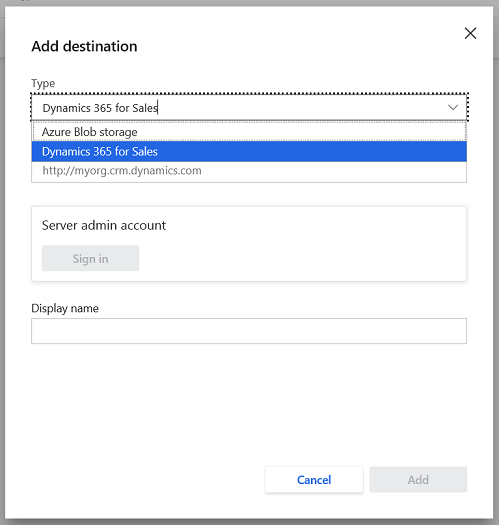
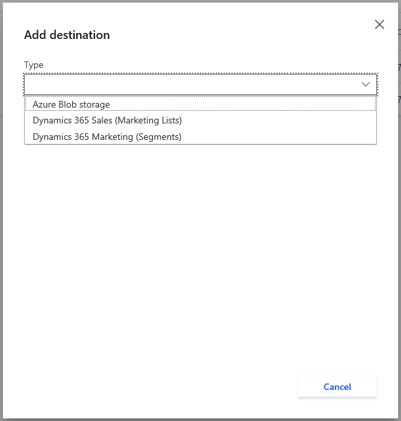
Nimrod revisions

diff --git a/ai-docs/customer-insights/export-destinations.md b/ai-docs/customer-insights/export-destinations.md
@@ -70,19 +70,42 @@ You can create a Dynamics 365 destination to export your segments. Customer Insi
 - Dynamics 365 Marketing (Segments)
 
 
-1. Within the **Export destionations** page, select **Add Destination**.
+1. Within the **Export destinations** page, select **Add Destination**.
 
    > [!div class="mx-imgBorder"] 
    > ![](media/add-export-destination.png "Add Export destination")
 
-2. Choose "Dynamics 365 for Sales" in the **Type** drop-down list.
+2. Choose "Dynamics 365 for Sales" or "Dynamics 365 Marketing" in the **Type** drop-down list.
 
    > [!div class="mx-imgBorder"] 
    > ![](media/export-destinations-dynamics365-for-sales.png "Select Dynamics 365 for Sales")
 
-3. Define your Dynamics 365 for Sales URL in **Server address*, **Sign in**, select a Dynamics 365 for Sales account, then give your destination a recognizable name in **Display name**.
+3. Specify your Dynamics 365 for Sales or Dynamics 365 Marketing URL in **Server address**, select **Sign in**, and then select a Dynamics 365 for Sales or Dynamics 365 Marketing account.
 
-4. Select **Add**.
+   > [!div class="mx-imgBorder"] 
+   > ![](media/add-destination.png "Add destination page")
+
+4. Indicate the field in Customer entity that maps to the Dynamics 365 Contact ID. Only contacts that can be mapped back to Dynamics 365 will be exported. Customer Insights is not creating new contacts in Dynamics 365.
+
+5. Give your destination a recognizable name in **Display name**.
+
+   > [!div class="mx-imgBorder"] 
+   > ![](media/add-destination-display-name.png "Add destination display name")
+
+6. Select **Next**.
+
+7. Select the segment you wish to export, and then select **Save**.
+
+   > [!div class="mx-imgBorder"] 
+   > ![](media/select-segments-to-export.png "Select segment to export")
+
+## Run an Export
+
+Once a destination is set up, your export should start shortly if all prerequisites for export have been completed. In addition, your export for all destinations will run at the end of every scheduled refresh. For more information, see [Schedule tab](pm-settings.md#schedule-tab).
+
+You can also initiate Export manually.
+
+![Export destinations](media/export-destinations-preview.png)
 
 ## View Export destinations
 
